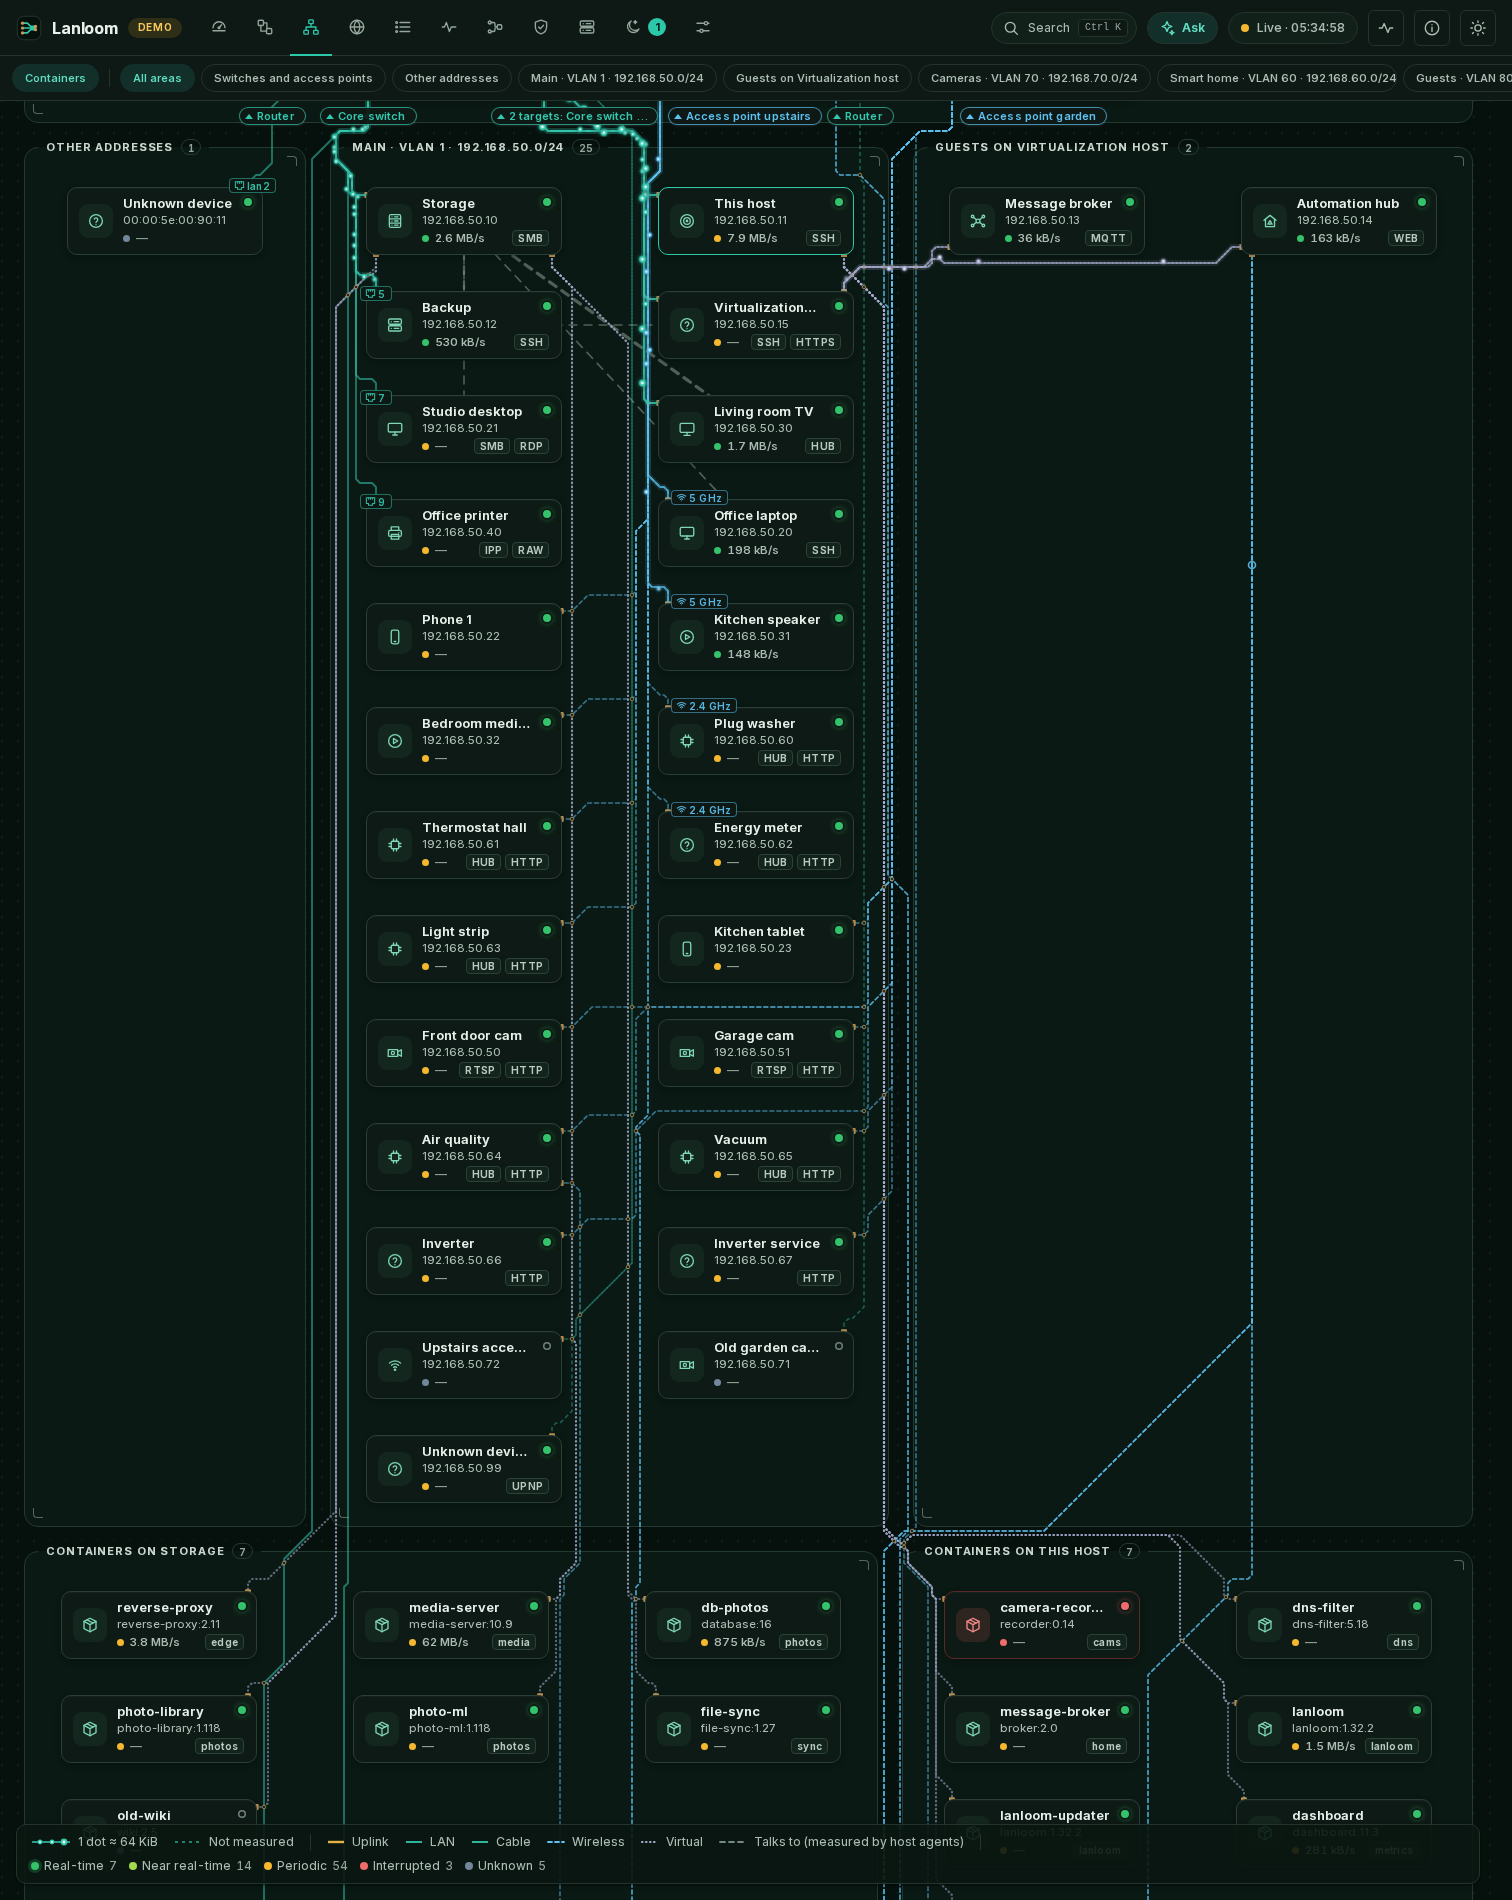
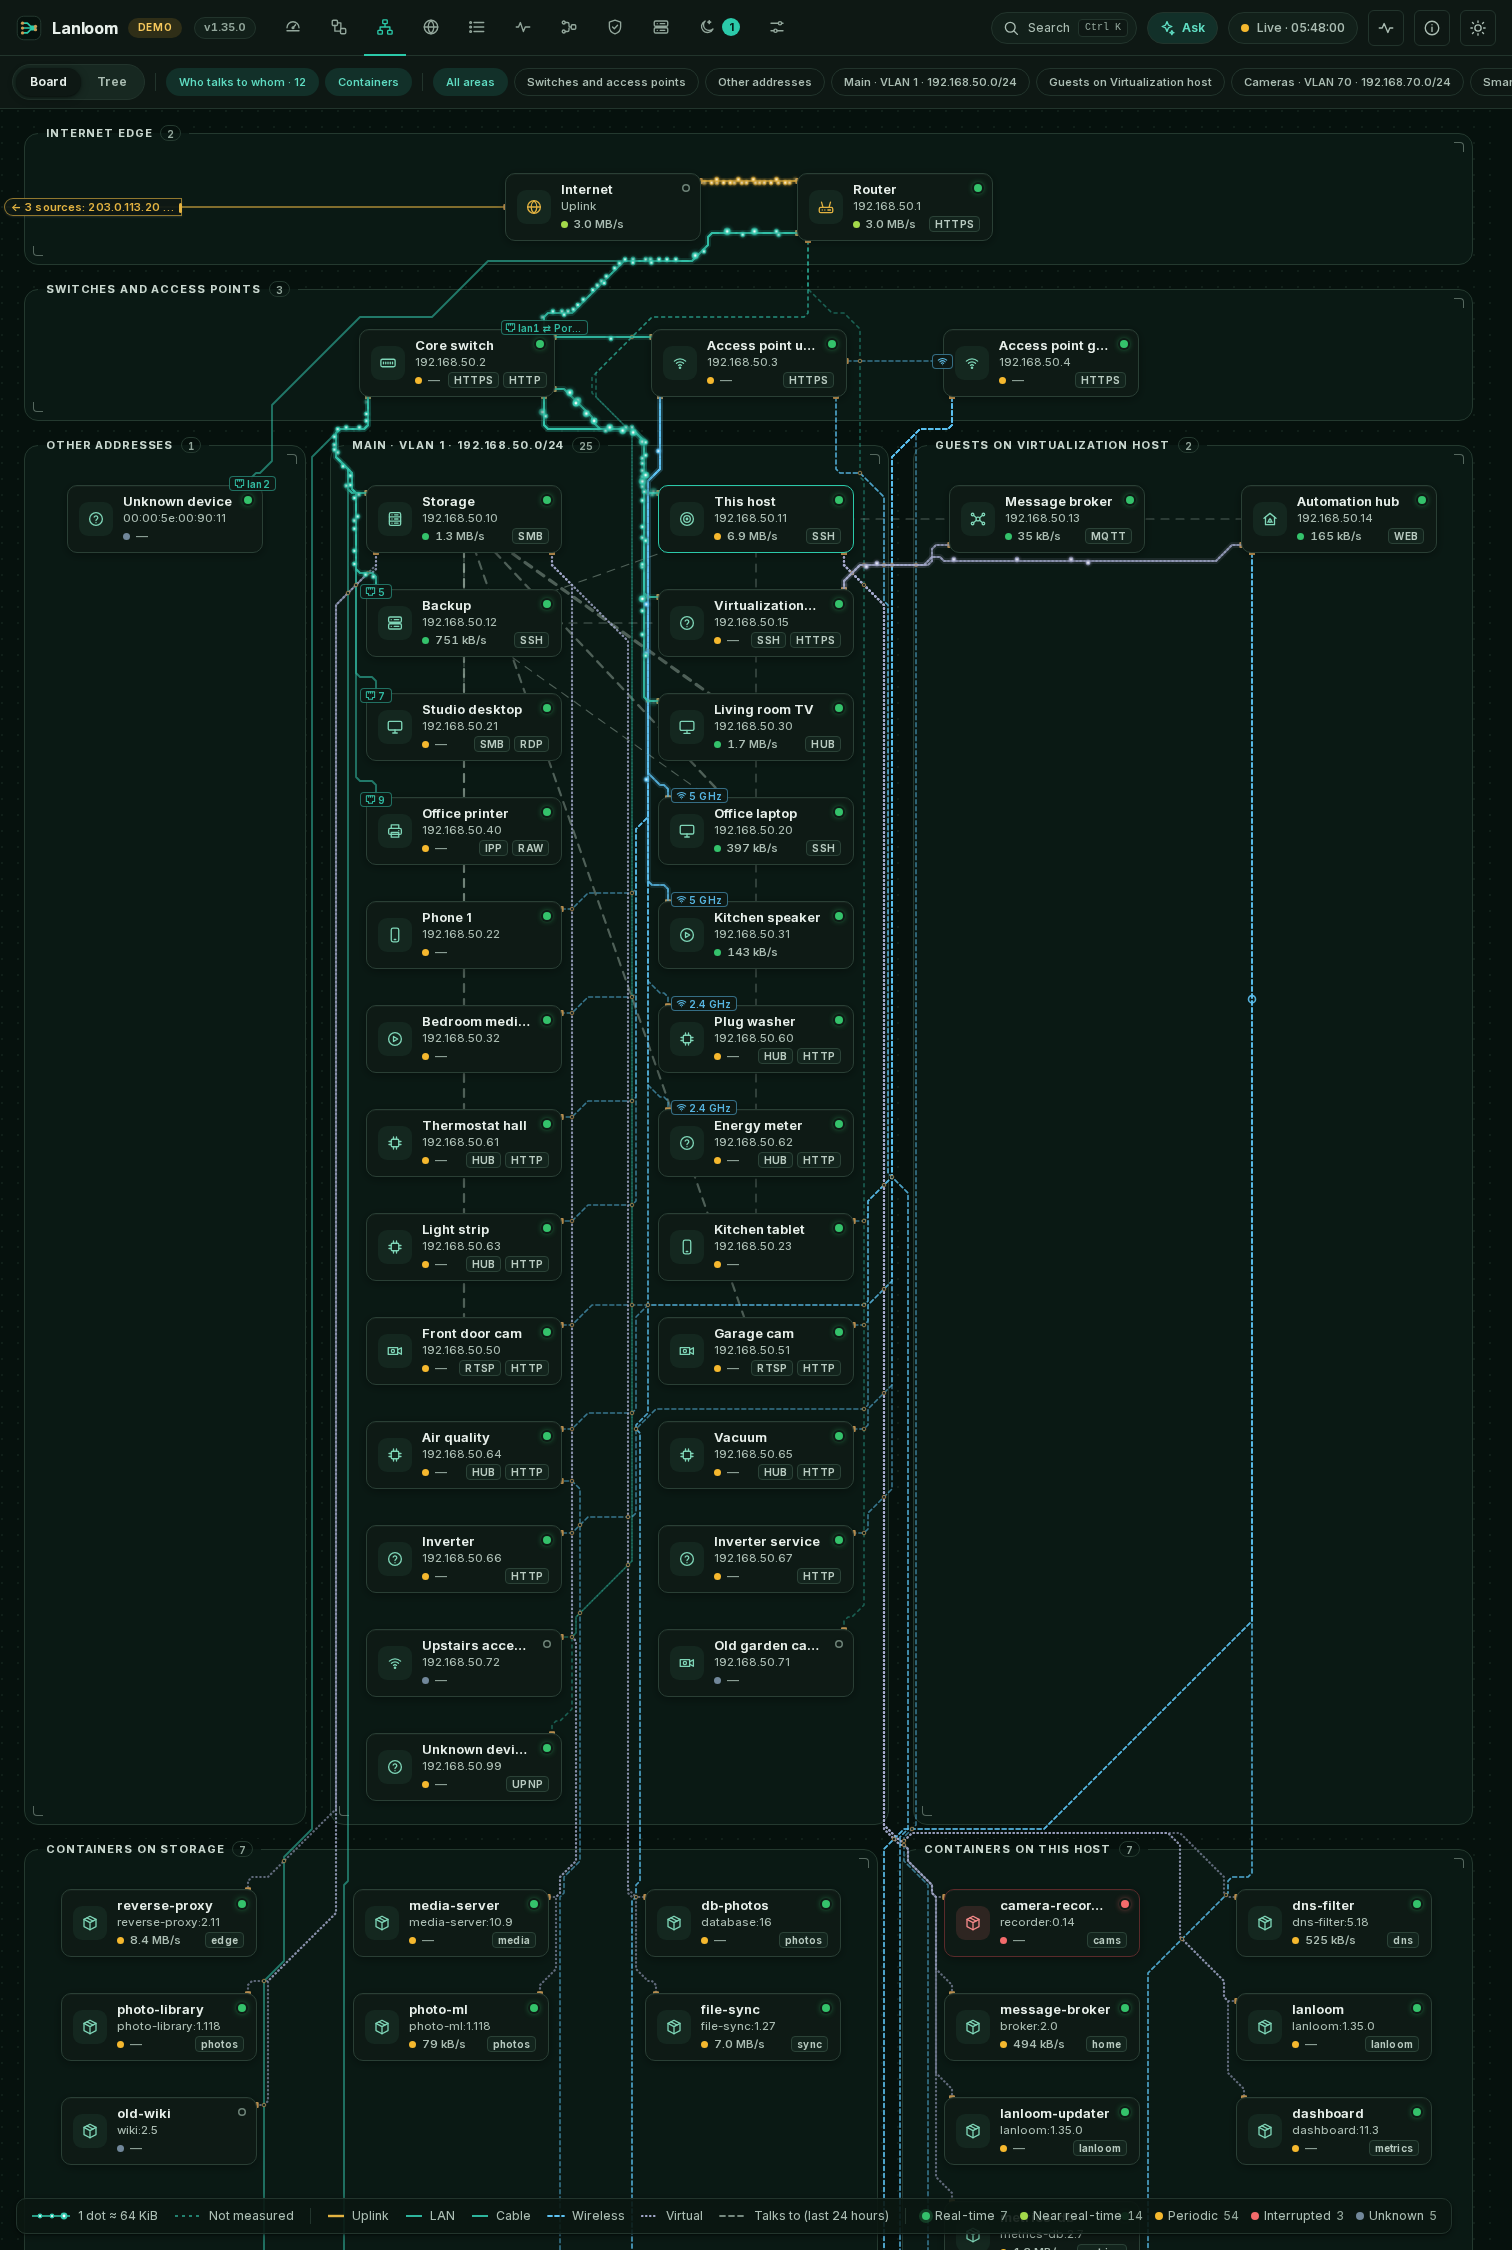
Lanloom 1.36.0: optional host agent (TCP conversations, services, load, disks, failed units and timers, containers, overlay VPN peers; metadata only), pairing with one-time codes and revocable tokens, container source over a socket proxy, Running view, containers folded under their host on the map, 

diff --git a/CHANGELOG.md b/CHANGELOG.md
@@ -2,6 +2,24 @@
 
 All notable changes to this project are documented here. The format follows [Keep a Changelog](https://keepachangelog.com/en/1.1.0/) and the project uses [Semantic Versioning](https://semver.org/).
 
+## [1.36.0] – 2026-11-18
+
+### Added
+- **Host agent (optional).** A small agent for the other hosts of the network, started from the same signed image (`python -m lanloom.agent run`, standard library only). It reports every 10 seconds, only to the Lanloom it was paired with: bytes per TCP conversation (kernel socket diagnostics), listening services with the short process name, load, memory and disks, failed services and the results of timers (a read-only client of the system message bus that can only list and read properties), the containers of the host's container runtime and, when its status socket is there, the peers of an overlay VPN. Metadata only: never contents, environment variables, command lines, labels (except the compose project and service), mounts or health check output - a positive list on the agent and a second filter in Lanloom. It opens no port and takes no commands.
+- **Pairing with a one-time code.** Settings › Agents › *Pair a host agent* shows a code (30 minutes, once) with a ready compose file and a `docker run` line for the host. The agent exchanges the code for a token of its own; Lanloom keeps only the token's hash, and *Remove* revokes it at once (the agent then stops sending and waits quietly). Reports wait in a buffer of about two hours when Lanloom cannot be reached (kept across restarts) and go out oldest first. The agent never loads code: when its version differs, Lanloom names the exact image to pull.
+- **Container source without an agent.** Settings › Agents › *Add container source*: a container runtime API behind a socket proxy (`unix://`, `http://`, `tcp://`), read every 30 seconds with GET requests only; *Test* shows runtime, version and the number of containers.
+- **Running view.** A new tab per host: system values with a 24-hour trend, containers (state, health, image, uptime, ports, live rate), listening services, timers with last and next run and their result, failed units, overlay VPN peers; *Problems only* and a search. Containers that lived less than 10 minutes (one-off jobs) are only counted, a known, restarting or unhealthy one always shows.
+- **Containers on the map.** In the Network view the containers of a host are sub-parts in a zone right after it, folded until opened (chip *Containers*, the host's card, palette *Show containers on the map* / *Hide containers on the map*; remembered per host). A container stopped on purpose is grey, a failed, dead or restarting one red. Cards for a container and a *Host agent* section on the card of a host.
+- **Who talks to whom across hosts.** Conversations an agent measures between two known devices become pairs of the data paths (the map's dashed lines and *Where does it talk to?* on the cards); when both ends run an agent, only one side counts them. Bytes to the internet go into the data paths of that host.
+- Nightly report section *Hosts and containers* (silent agents, failed services and timers, unhealthy containers, full disks, agents waiting for an update) and notification events *Host agent silent*, *Service or timer failed*, *Container unhealthy*. 5-minute samples of load, memory, disk and failures per host are kept for 35 days (host health for the forecast feature). Demo with two agents and a container source.
+- Documentation: [Host agent](docs/HOST-AGENT.md) (reference and installation), manual page [Running](docs/manual/running.md), compatibility, troubleshooting, security model, `deploy/agent-compose.yaml`; screenshots.
+
+### Security
+- New routes in the rights table: reading for every role, renaming for operators, codes, container sources and removal for administrators (with a fresh confirmation for codes and removal), the report route only with an agent token. The agent's outbound connection is a category of its own in the egress allow-list (`agent-link`); the runtime and bus clients are checked to send nothing but GET requests and listing/reading calls.
+
+### Tests
+- Secret filter with known secrets in environment, command line, labels, mounts and health output (on the agent, in the database and in every answer), a stand-in container runtime that records every request (GET only), the bus client's method list and wire format, pairing, one-time codes, token hashes, revocation, buffer and restart, noise filter, conversations counted once, samples, events, nightly section, demo; a browser check of the Running view, the pairing dialog, the folded containers and the cards at desktop and phone width.
+
 ## [1.35.0] – 2026-11-18
 
 ### Added
